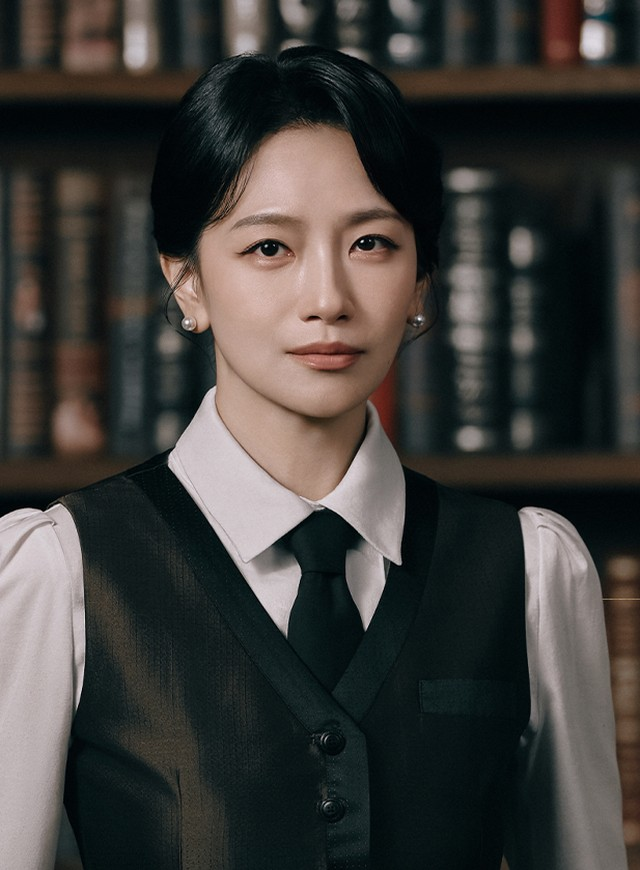
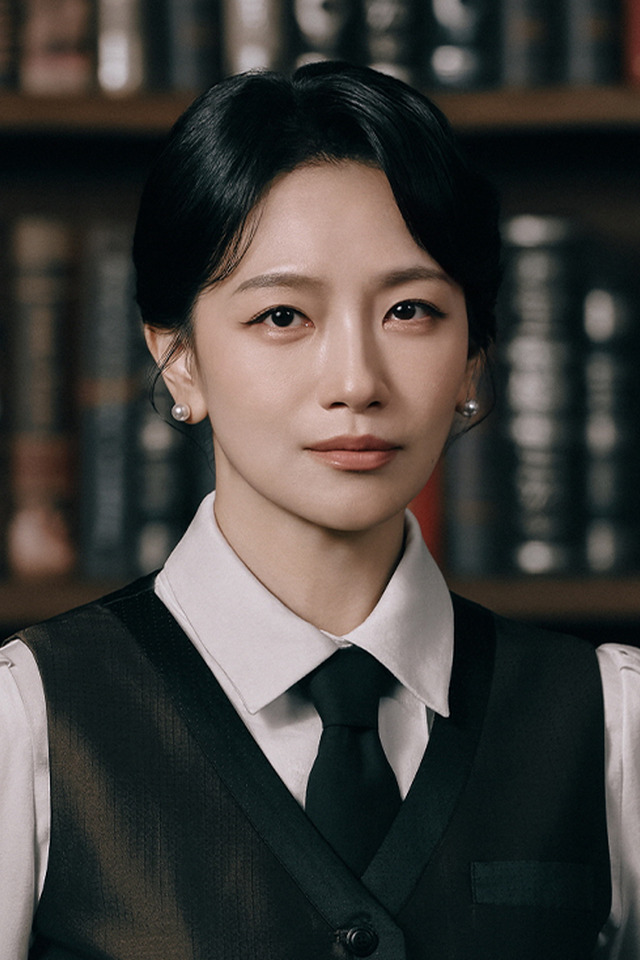
배우 사진을 NOL 상세페이지 구도로 교체, 아이콘을 아가사 로고로 변경
- 배우 사진 22장: 상세페이지 'Character & Cast' 액자 사진과 같은 구도(2:3, 640×960)로 다시 크롭
- 사진 칸 비율 640:870 → 2:3
- 파비콘·홈 화면 아이콘: 'A' 한 글자 → 아가사 로고 전체
- 정산판 위 "뮤지컬 <아가사> 정산판" 제목 글씨 제거

diff --git a/index.html b/index.html
@@ -5,9 +5,9 @@
 <meta name="viewport" content="width=device-width, initial-scale=1">
 <title>뮤지컬 &lt;아가사&gt; 정산판</title>
 <meta name="description" content="뮤지컬 아가사 2026 관람 정산판 — 캐스팅 스케줄, 좌석 기록, 정산표">
-<link rel="icon" type="image/png" sizes="32x32" href="images/icon-32.png">
-<link rel="icon" type="image/png" sizes="192x192" href="images/icon-192.png">
-<link rel="apple-touch-icon" sizes="180x180" href="images/icon-180.png">
+<link rel="icon" type="image/png" sizes="32x32" href="images/icon-32.png?v=1793845883">
+<link rel="icon" type="image/png" sizes="192x192" href="images/icon-192.png?v=1793845883">
+<link rel="apple-touch-icon" sizes="180x180" href="images/icon-180.png?v=1793845883">
 <link rel="manifest" href="manifest.webmanifest">
 <meta name="apple-mobile-web-app-title" content="아가사 정산판">
 <meta name="application-name" content="아가사 정산판">
@@ -16,7 +16,7 @@
 <link rel="preconnect" href="https://fonts.gstatic.com" crossorigin>
 <link href="https://fonts.googleapis.com/css2?family=Noto+Serif+KR:wght@400;500;600;700&family=Cormorant+Garamond:ital,wght@1,500&display=swap" rel="stylesheet">
 <link rel="stylesheet" href="https://cdn.jsdelivr.net/gh/orioncactus/pretendard@v1.3.9/dist/web/static/pretendard-dynamic-subset.min.css">
-<link rel="stylesheet" href="css/style.css?v=1793773383">
+<link rel="stylesheet" href="css/style.css?v=1793845883">
 </head>
 <body>
 
@@ -65,7 +65,6 @@
 <!-- ───────── 정산판 (가로형 1600px) ───────── -->
 <section class="poster-section">
   <div class="poster-toolbar">
-    <h2>뮤지컬 &lt;아가사&gt; 정산판</h2>
     <button type="button" class="dl" data-target="posterA" data-name="아가사-정산판">PNG 저장</button>
   </div>
   <div class="poster-viewport" data-w="1600">
@@ -98,7 +97,7 @@
 
 
 <script src="https://cdnjs.cloudflare.com/ajax/libs/html2canvas/1.4.1/html2canvas.min.js"></script>
-<script src="js/data.js?v=1793773383"></script>
-<script src="js/app.js?v=1793773383"></script>
+<script src="js/data.js?v=1793845883"></script>
+<script src="js/app.js?v=1793845883"></script>
 </body>
 </html>

diff --git a/css/style.css b/css/style.css
@@ -196,8 +196,7 @@ h2 { margin: 0; font-family: var(--serif); font-weight: 600; letter-spacing: .04
 
 /* ───────── 정산판 공통 ───────── */
 .poster-section { padding: 30px 12px 56px; }
-.poster-toolbar { display: flex; align-items: center; justify-content: space-between; gap: 12px; max-width: 1600px; margin: 0 auto 12px; }
-.poster-toolbar h2 { line-height: 1.3; font-size: 20px; color: var(--gold); }
+.poster-toolbar { display: flex; align-items: center; justify-content: flex-end; gap: 12px; max-width: 1600px; margin: 0 auto 12px; }
 .poster-toolbar button { flex: none; }
 .poster-toolbar button.dl { background: var(--accent); border-color: #c5555a; color: #fff; }
 .poster-toolbar button.dl:disabled { opacity: .5; cursor: progress; }
@@ -215,7 +214,7 @@ h2 { margin: 0; font-family: var(--serif); font-weight: 600; letter-spacing: .04
 
 /* 사진 슬롯 */
 .p-photo {
-  position: relative; width: 100%; aspect-ratio: 640 / 870; overflow: hidden;
+  position: relative; width: 100%; aspect-ratio: 2 / 3; overflow: hidden;
   border: 1px solid var(--frame); background: #1a0a08;
 }
 .p-photo img { width: 100%; height: 100%; object-fit: cover; }

diff --git a/js/app.js b/js/app.js
@@ -319,7 +319,7 @@
   function renderPosterA(stats) {
     const actorHtml = (r, a, i) => {
       const st = stats.perActor[r.key + ':' + a];
-      return `<div class="p-actor">${photo(`images/cast/${r.key}-${i + 1}.jpg`, a)}<div class="p-name">${esc(a)}</div>${countHtml(st.seen, st.total)}</div>`;
+      return `<div class="p-actor">${photo(`images/cast/${r.key}-${i + 1}.jpg?v=2`, a)}<div class="p-name">${esc(a)}</div>${countHtml(st.seen, st.total)}</div>`;
     };
     const title = r => `<div class="p-group-title"><span class="ttl">${esc(r.name)}</span></div>`;
     const group = r => `<div class="p-group">${title(r)}<div class="p-row">${r.actors.map((a, i) => actorHtml(r, a, i)).join('')}</div></div>`;

diff --git a/README.md b/README.md
@@ -21,8 +21,8 @@ site/
     ├── logo-flat.svg        로고 (단색 금색)
     ├── logo-white.svg       로고 (흰색)
     ├── bg-leather.jpg       정산판 배경 (가죽 질감, 1080 × 2160)
-    ├── icon-32/180/192/512.png   파비콘·홈 화면 아이콘 (자주색 바탕 + 로고의 'A')
-    └── cast/                배우 사진 (jpg, 640×870)
+    ├── icon-32/180/192/512.png   파비콘·홈 화면 아이콘 (자주색 바탕 + 아가사 로고)
+    └── cast/                배우 사진 (jpg, 640×960)
 ```
 
 로고는 1차 티켓 오픈 안내 이미지에서 금색 영역만 잘라내(누끼) 4배 확대 후 potrace 로 외곽선을 벡터화한 SVG 입니다.
@@ -32,7 +32,7 @@ site/
 
 | 파일 | 내용 | 규격 |
 |---|---|---|
-| `images/cast/agatha-1.jpg` ~ `agatha-3.jpg` | 최수진, 백은혜, 이정화 | 전부 **640 × 870px** |
+| `images/cast/agatha-1.jpg` ~ `agatha-3.jpg` | 최수진, 백은혜, 이정화 | 전부 **640 × 960px** (2:3) |
 | `images/cast/roy-1.jpg` ~ `roy-4.jpg` | 김재범, 고상호, 윤소호, 원태민 | " |
 | `images/cast/raymond-1.jpg` ~ `raymond-3.jpg` | 홍나현, 정지우, 홍기범 | " |
 | `images/cast/archibald-1.jpg`, `-2.jpg` | 정평, 김대식 | " |
@@ -42,8 +42,8 @@ site/
 | `images/cast/nancy-1.jpg`, `-2.jpg` | 정다예, 김초하 | " |
 | `images/cast/heritz-1.jpg`, `-2.jpg` | 강인대, 이찬렬 | " |
 
-사진을 교체하려면 같은 이름의 jpg로 덮어쓰면 됩니다. 비율이 640:870이 아니면 가운데 기준으로 잘려서 표시됩니다.
-사진은 공식 프로필(1080×1350)에서 얼굴 위치를 기준으로 같은 구도(얼굴 폭 = 사진 폭의 40%, 얼굴 상단 = 높이 17% 지점)로 잘랐습니다.
+사진을 교체하려면 같은 이름의 jpg로 덮어쓰면 됩니다. 비율이 2:3이 아니면 가운데 기준으로 잘려서 표시됩니다.
+사진은 NOL 티켓 상세페이지 'Character & Cast'의 액자 사진과 **같은 구도**입니다. 상세페이지 액자 속 사진(2:3)을 공식 프로필 원본(1080×1350)에 템플릿 매칭해 크롭 영역을 역산했고, 중심 오차 0.01px·크기 오차 0.06% 이내로 일치합니다. 낸시·헤리츠 4장은 원본 위쪽이 2~3% 모자라 그 띠만 상세페이지 화소로 채웠습니다.
 
 ## 일정 추가 (2차 티켓 오픈 등)
 
